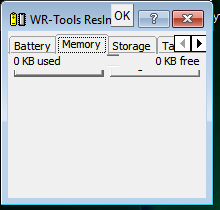
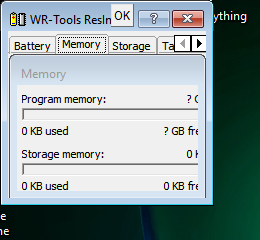
Fix WS_CHILD dialog layout: strip WS_CHILD before CreateDialogIndirectParamW
Desktop Windows CreateDialogIndirectParamW positions child controls at y=0
when WS_CHILD is in the template style. ARM commctrl's property sheet pages
are created with WS_CHILD | DS_CONTROL | DS_3DLOOK. Workaround: strip
WS_CHILD from the template before native creation (so DLU→pixel conversion
works correctly), then reparent with SetParent + SetWindowLongPtrW after.

diff --git a/cerf/thunks/coredll/dialog.cpp b/cerf/thunks/coredll/dialog.cpp
@@ -119,8 +119,21 @@ void Win32Thunks::RegisterDialogHandlers() {
         /* Pre-register the ARM dlgproc so EmuDlgProc can dispatch WM_INITDIALOG
            which is sent during CreateDialogIndirectParamW before it returns. */
         pending_arm_dlgproc = arm_dlgProc;
+        /* Workaround: CreateDialogIndirectParamW on desktop Windows positions
+           child controls at y=0 when WS_CHILD is in the template style.
+           Strip WS_CHILD before creation (so DLU conversion works), then
+           reparent the window as a child afterwards. */
+        uint32_t tmpl_style = *(uint32_t*)&tmpl[0];
+        bool was_child = (tmpl_style & WS_CHILD) != 0;
+        if (was_child)
+            *(uint32_t*)&tmpl[0] = tmpl_style & ~(uint32_t)WS_CHILD;
         HWND dlg = CreateDialogIndirectParamW(GetModuleHandleW(NULL),
             (LPCDLGTEMPLATEW)tmpl.data(), (HWND)(intptr_t)(int32_t)hwndParent, EmuDlgProc, initParam);
+        if (dlg && was_child) {
+            SetWindowLongPtrW(dlg, GWL_STYLE,
+                GetWindowLongPtrW(dlg, GWL_STYLE) | WS_CHILD);
+            SetParent(dlg, (HWND)(intptr_t)(int32_t)hwndParent);
+        }
         pending_arm_dlgproc = 0;
         LOG(THUNK, "[THUNK] CreateDialogIndirectParamW(parent=0x%X, dlgproc=0x%08X) -> HWND=0x%p (err=%lu)\n",
             hwndParent, arm_dlgProc, dlg, dlg ? 0UL : GetLastError());

diff --git a/known_issues/ResInfo.exe/ResInfo.exe.md b/known_issues/ResInfo.exe/ResInfo.exe.md
@@ -23,17 +23,25 @@ ARM commctrl's `PropSheetDlgProc` calls `SetWindowLongW(hDlg, 8, ppda)` intendin
 
 ---
 
-## 2. Control layout inside tab pages is broken — OPEN
+## 2. Control layout inside tab pages is broken — RESOLVED
 
 **Description**: The property sheet tabs (Battery, Memory, Storage) appear and can be switched, but all child controls within each page are stacked at y=0 (top of the page area). Labels, progress bars, and buttons all overlap at the same vertical position instead of being laid out vertically.
 
-**Expected**: Controls should be vertically distributed as shown in `on_real_device.png`.
+**Root cause**: Desktop Windows `CreateDialogIndirectParamW` positions child controls at y=0 when `WS_CHILD` is set in the dialog template style. ARM commctrl's `_CreatePageDialog` calls `GetPageDialogStyle()` which forces `WS_CHILD | DS_CONTROL | DS_3DLOOK` on page templates before calling `CreateDialogIndirectParamW`. The DLU-to-pixel conversion for x positions, widths, and heights works correctly, but y coordinates are always mapped to 0 for WS_CHILD templates — verified by testing with different fonts and even a trivial dialog proc.
 
-**Status**: Open — needs investigation. Likely related to DLU-to-pixel conversion or dialog template font metrics for page child dialogs.
+**Fix**: Strip `WS_CHILD` from the template style before calling native `CreateDialogIndirectParamW` (so DLU→pixel conversion works correctly for all coordinates), then reparent the dialog as a child window with `SetParent` + `SetWindowLongPtrW(GWL_STYLE, ... | WS_CHILD)` afterwards.
 
 ---
 
-## 3. Window positioned off-screen at Y=32767 — OPEN
+## 3. Missing tab icons — OPEN
+
+**Description**: On real WinCE devices, the property sheet tabs show small icons next to the tab labels (Battery, Memory, Storage). In cerf, the tab labels appear but without icons.
+
+**Status**: Open — needs investigation. The icons may be loaded from ResInfo.exe resources or system shell resources.
+
+---
+
+## 4. Window positioned off-screen at Y=32767 — OPEN
 
 **Description**: The property sheet window is created at Y=32767 (0x7FFF), which is off-screen. This is the maximum positive signed 16-bit value, suggesting a WinCE coordinate system issue. WinCE uses 16-bit screen coordinates; the property sheet may use CW_USEDEFAULT or a WinCE-specific default that doesn't translate to desktop Windows.
 
